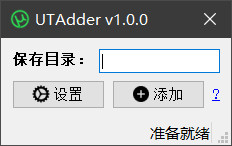
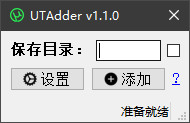
更新到 1.10 版本

diff --git a/ui/main_widget.py b/ui/main_widget.py
@@ -10,7 +10,7 @@ import logging
 
 from PyQt5.QtCore import pyqtSignal
 from PyQt5.QtGui import QIcon
-from PyQt5.QtWidgets import QWidget, QHBoxLayout, QVBoxLayout, QPushButton, QLineEdit, QLabel
+from PyQt5.QtWidgets import QWidget, QHBoxLayout, QVBoxLayout, QPushButton, QLineEdit, QLabel, QCheckBox
 
 from config.settings import GITHUB_URL
 from ui.action_add import ActionAdd
@@ -53,6 +53,7 @@ class MainWidget(QWidget):
         self.label.setText(f"<b>{self.lang['main_2']}</b>")
         self.btn_set.setText(self.lang['main_3'])
         self.btn_add.setText(self.lang['main_4'])
+        self.check_box.setToolTip(self.lang['main_5'])
 
     def init_ui(self) -> None:
         """
@@ -60,13 +61,15 @@ class MainWidget(QWidget):
 
         :return: 无返回值。
         """
-        # 第一行：标签 + 输入框
+        # 第一行：标签 + 输入框 + 勾选框
         self.label = QLabel(self)
         self.line_edit = QLineEdit(self)
+        self.check_box = QCheckBox()
 
         h_layout_top = QHBoxLayout()
         h_layout_top.addWidget(self.label)
         h_layout_top.addWidget(self.line_edit)
+        h_layout_top.addWidget(self.check_box)
 
         # 第二行：设置 + 添加按钮
         self.btn_set = QPushButton(self)
@@ -108,7 +111,8 @@ class MainWidget(QWidget):
         :return: 无返回值。
         """
         self.sub_dir = self.line_edit.text()
-        self.actionAdd = ActionAdd(self.lang_manager, self.config_manager, self.sub_dir)
+        self.pick_torrent_name = self.check_box.isChecked()
+        self.actionAdd = ActionAdd(self.lang_manager, self.config_manager, self.sub_dir, self.pick_torrent_name)
         self.actionAdd.status_updated.connect(self.forward_status)
         self.actionAdd.initialize_signal.connect(self.initialize)
         self.actionAdd.finalize_signal.connect(self.finalize)

diff --git a/lib/add_to_ut.py b/lib/add_to_ut.py
@@ -25,6 +25,7 @@ def add_to_ut(config: Dict[str, str]) -> Optional[int]:
     ut_path = config['ut_path']
     save_path = config['save_path']
     torrent_path = config['torrent_path']
+    pick_torrent_name = config['pick_torrent_name']
     added_path = os.path.join(torrent_path, "added")
     added = 0
     try:
@@ -33,16 +34,21 @@ def add_to_ut(config: Dict[str, str]) -> Optional[int]:
 
         # 列出目录下所有文件和目录
         for item in os.listdir(torrent_path):
+            # 分割文件名
+            torrent_name, ext = os.path.splitext(item)
             # 构造完整路径
             full_path = os.path.join(torrent_path, item)
             # 检查是否是文件并以 .torrent 结尾
-            if os.path.isfile(full_path) and item.endswith('.torrent'):
+            if os.path.isfile(full_path) and ext == '.torrent':
                 # 先移动到完成目录再添加
                 shutil.move(full_path, added_path)
                 add_path = os.path.join(added_path, item)
+                save_path = f"{save_path}/{torrent_name}" if pick_torrent_name else save_path
                 logger.info(add_path)
                 subprocess.run([ut_path, "/DIRECTORY", save_path, add_path], capture_output=True, text=True)
                 added += 1
+        # 也可以一次性添加，torrent_paths 为所有种子路径列表
+        # subprocess.run([ut_path, "/DIRECTORY", save_path]+torrent_paths, capture_output=True, text=True)
         return added
     except Exception:
         logger.exception("Exception occurred")

diff --git a/ui/action_add.py b/ui/action_add.py
@@ -25,6 +25,7 @@ class ActionAdd(QThread):
     :param lang_manager: 语言管理器，用于更新动作的显示语言。
     :param config_manager: 配置管理器，用于读取和修改设置。
     :param sub_dir: 设置此批种子储存文件夹。
+    :param pick_torrent_name: 保留种子名作为子文件夹名。
     """
     initialize_signal = pyqtSignal()
     finalize_signal = pyqtSignal()
@@ -33,7 +34,8 @@ class ActionAdd(QThread):
     def __init__(self,
                  lang_manager: LangManager,
                  config_manager: ConfigManager,
-                 sub_dir: str):
+                 sub_dir: str,
+                 pick_torrent_name: bool):
         super().__init__()
         self.lang_manager = lang_manager
         self.lang = self.lang_manager.get_lang()
@@ -41,6 +43,7 @@ class ActionAdd(QThread):
         self.config = self.config_manager.get_config()
         # 拼接设置中的下载根目录目录和用户输入保存目录名
         self.config['save_path'] = os.path.join(self.config['save_path'], sub_dir)
+        self.config['pick_torrent_name'] = pick_torrent_name
 
     def run(self) -> None:
         """

diff --git a/config/lang_dict_all.py b/config/lang_dict_all.py
@@ -7,6 +7,7 @@ LANG_DICTS = {
         'main_2': 'Save to:',
         'main_3': 'Setup',
         'main_4': 'Add',
+        'main_5': 'Use torrent name as folder name',
         'ui.action_setting_1': 'Program Settings',
         'label_status_error': 'Error occurred',
         'ui.dialog_settings_main_1': 'Settings',
@@ -29,6 +30,7 @@ LANG_DICTS = {
         'main_2': '保存目录：',
         'main_3': '设置',
         'main_4': '添加',
+        'main_5': '使用种子文件名作为文件夹名称',
         'ui.action_setting_1': '程序设置',
         'label_status_error': '发生错误！',
         'ui.dialog_settings_main_1': '设置页面',

diff --git a/config/settings.py b/config/settings.py
@@ -3,7 +3,7 @@
 """
 # 程序信息
 PROGRAM_NAME = 'UTAdder'
-VERSION_INFO = 'v1.0.0'
+VERSION_INFO = 'v1.1.0'
 AUTHOR_NAME = 'assassing'
 CONTACT_MAIL = 'hxz393@gmail.com'
 WEBSITE_URL = 'https://blog.x2b.net'

diff --git a/README_EN.md b/README_EN.md
@@ -64,7 +64,7 @@ Click "Confirm" to save your changes. The configuration will be stored in `confi
 
 The primary feature of UTAdder is to quickly add multiple torrent files into uTorrent in one go. Here's how it works:
 
-- **Save to**: If you don't care about organizing your downloads, you could simply drag and drop multiple torrents into uTorrent. But if you regularly categorize downloads as soon as you add them, UTAdder helps. For example, if your root download directory is `D:\Download` and you set the save directory to `ABBA`, the completed download path becomes `D:\Download\ABBA`. After bulk adding, UTAdder clears the save to field, so you can immediately set a different directory for your next batch (e.g., `AC-DC`).
+- **Save to**: If you don't care about organizing your downloads, you could simply drag and drop multiple torrents into uTorrent. But if you regularly categorize downloads as soon as you add them, UTAdder helps. For example, if your root download directory is `D:\Download` and you set the save directory to `ABBA`, the completed download path becomes `D:\Download\ABBA`. After bulk adding, UTAdder clears the save to field, so you can immediately set a different directory for your next batch (e.g., `AC-DC`). When you check the box next to the input field, the torrent name will be retained as a new subdirectory level.
 - **Adding Tasks**: After you specify the directories, click "Add" to import all torrents from the configured torrent files folder into uTorrent. The speed might not look instantaneous, but it's still much faster than adding them one by one through the GUI. When it's done, the bottom-right corner of window will show the total number of added tasks or display any error messages.
 - **Handling Torrent Files**: After adding them, the original torrent files could be deleted. However, because there might be a slight delay before uTorrent fully processes them, deleting these files too soon can cause problems. To avoid this, UTAdder automatically moves successfully added torrents into an `added` subfolder within the torrent files directory, ensuring that nothing gets removed prematurely.
 
@@ -89,6 +89,12 @@ After adding tasks, uTorrent's main window will always pop up. There's no workin
 # Changelog
 
 Updates are irregular; I might not even use small version increments.
+
+## Version 1.1.0 (2024-12-31)
+
+**Updates**:
+
+1. Added an option to keep the torrent name as the task directory.
 
 ## Version 1.0.0 (2024-12-19)
 

diff --git a/README.md b/README.md
@@ -67,7 +67,7 @@ pyinstaller -F -w -i media/main.ico --add-data 'media/;media' UTAdder.py
 
 批量添加种子到 uTorrent 是程序主要功能，按照程序逻辑来说有三点：
 
-- **保存目录**：如果没有整理下载文件习惯，那这个程序基本用不到，只需要拖动多个种子文件到 uTorrent 窗体，即可实现批量添加任务。但如果经常下载，需要在下载时就设置好指定目录，那么可以使用本程序快速完成添加。例如在设置中下载根目录为 `D:\Download`，保存目录填入 `ABBA`，最终任务的下载目录为 `D:\Download\ABBA`。在完成批量添加任务后，保存目录输入框会自动清空，等待你下次指定，可能是 `AC-DC` 或是别的。
+- **保存目录**：如果没有整理下载文件习惯，那这个程序基本用不到，只需要拖动多个种子文件到 uTorrent 窗体，即可实现批量添加任务。但如果经常下载，需要在下载时就设置好指定目录，那么可以使用本程序快速完成添加。例如在设置中下载根目录为 `D:\Download`，保存目录填入 `ABBA`，最终任务的下载目录为 `D:\Download\ABBA`。在完成批量添加任务后，保存目录输入框会自动清空，等待你下次指定，可能是 `AC-DC` 或是别的。勾选输入框后面的勾，则会保留种子名作为新一级子目录。
 - **添加任务**：点击「添加」按钮后，程序会自动将指定目录下的所有种子添加到 uTorrent 中。添加速度没有程序显示的那么快，有延迟但还没碰到过失败，比在界面中一个个任务处理要快多了。完成以后，在程序窗口右下角会显示添加任务总数，或是报错信息？
 - **处理种子**：添加到下载后，按理说种子文件没用了，可以直接删除。但由于延迟存在，会出现任务还没添加完成（uTorrent 假死），种子文件先被删除，导致添加失败的情况。所以现在使用种子文件目录下的「added」文件夹，来收集已添加到任务的种子文件。
 
@@ -92,6 +92,12 @@ pyinstaller -F -w -i media/main.ico --add-data 'media/;media' UTAdder.py
 # 更新日志
 
 更新没有规律，估计小版本号都用不上。
+
+## 版本 1.1.0（2024.12.31）
+
+更新内容：
+
+1. 新增保留种名作为任务目录选项。
 
 ## 版本 1.0.0（2024.12.19）
 
